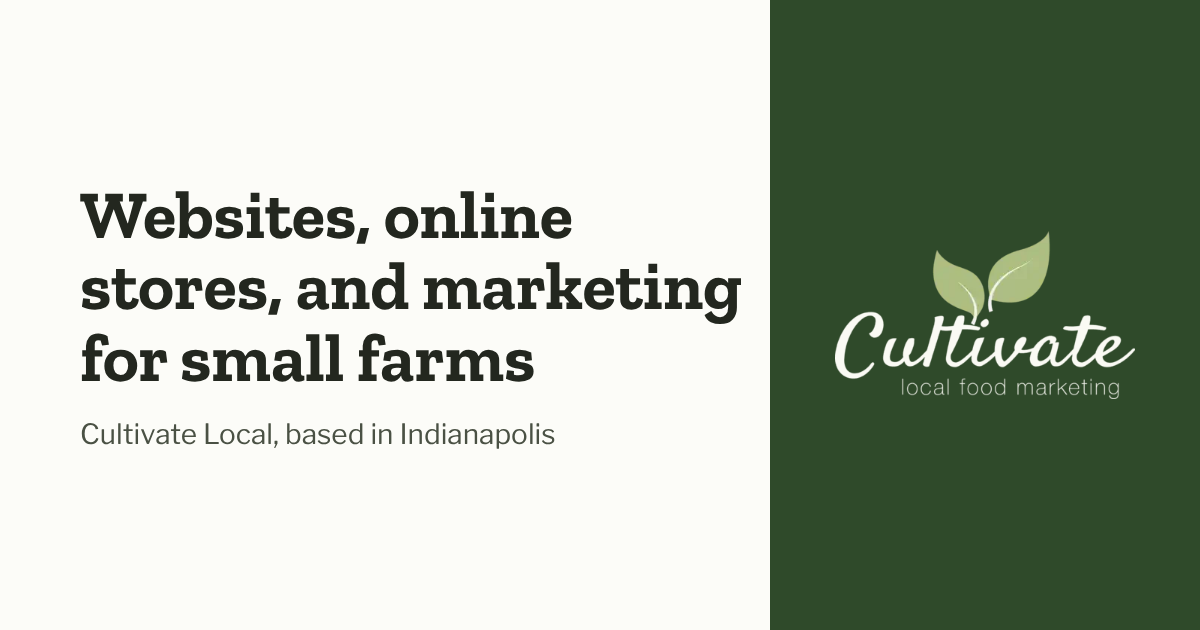
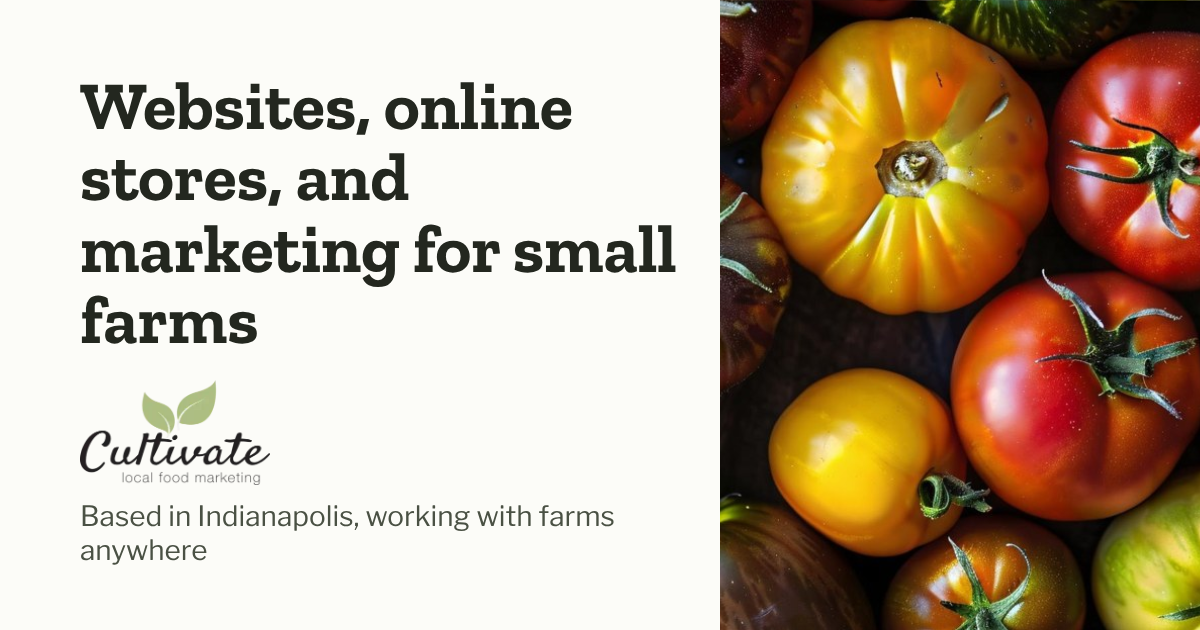
Add heirloom tomato photo to About, Home, and link preview
Claude-Session: https://claude.ai/code/session_01KC5bDKNDZYEXLhTi5ieuq1

diff --git a/src/assets/css/site.css b/src/assets/css/site.css
@@ -199,6 +199,12 @@ strong { font-weight: 700; }
 }
 .photo-slot.wide { aspect-ratio: 16 / 9; max-width: none; }
 
+/* Photo band */
+.photo-band { margin: 0; border-radius: 10px; overflow: hidden; background: var(--leaf-pale); }
+.photo-band img { width: 100%; height: auto; display: block; }
+.photo-band-strip { margin-bottom: calc(var(--section) * -0.5); position: relative; z-index: 1; }
+@media (max-width: 40rem) { .photo-band img { aspect-ratio: 16 / 9; object-fit: cover; } }
+
 /* Background timeline (stands in for a photo) */
 .path { background: var(--paper); border: 1px solid var(--leaf-line); border-radius: 10px; padding: 1.5rem 1.5rem 1.25rem; }
 .section-pale .path { background: #fff; }
